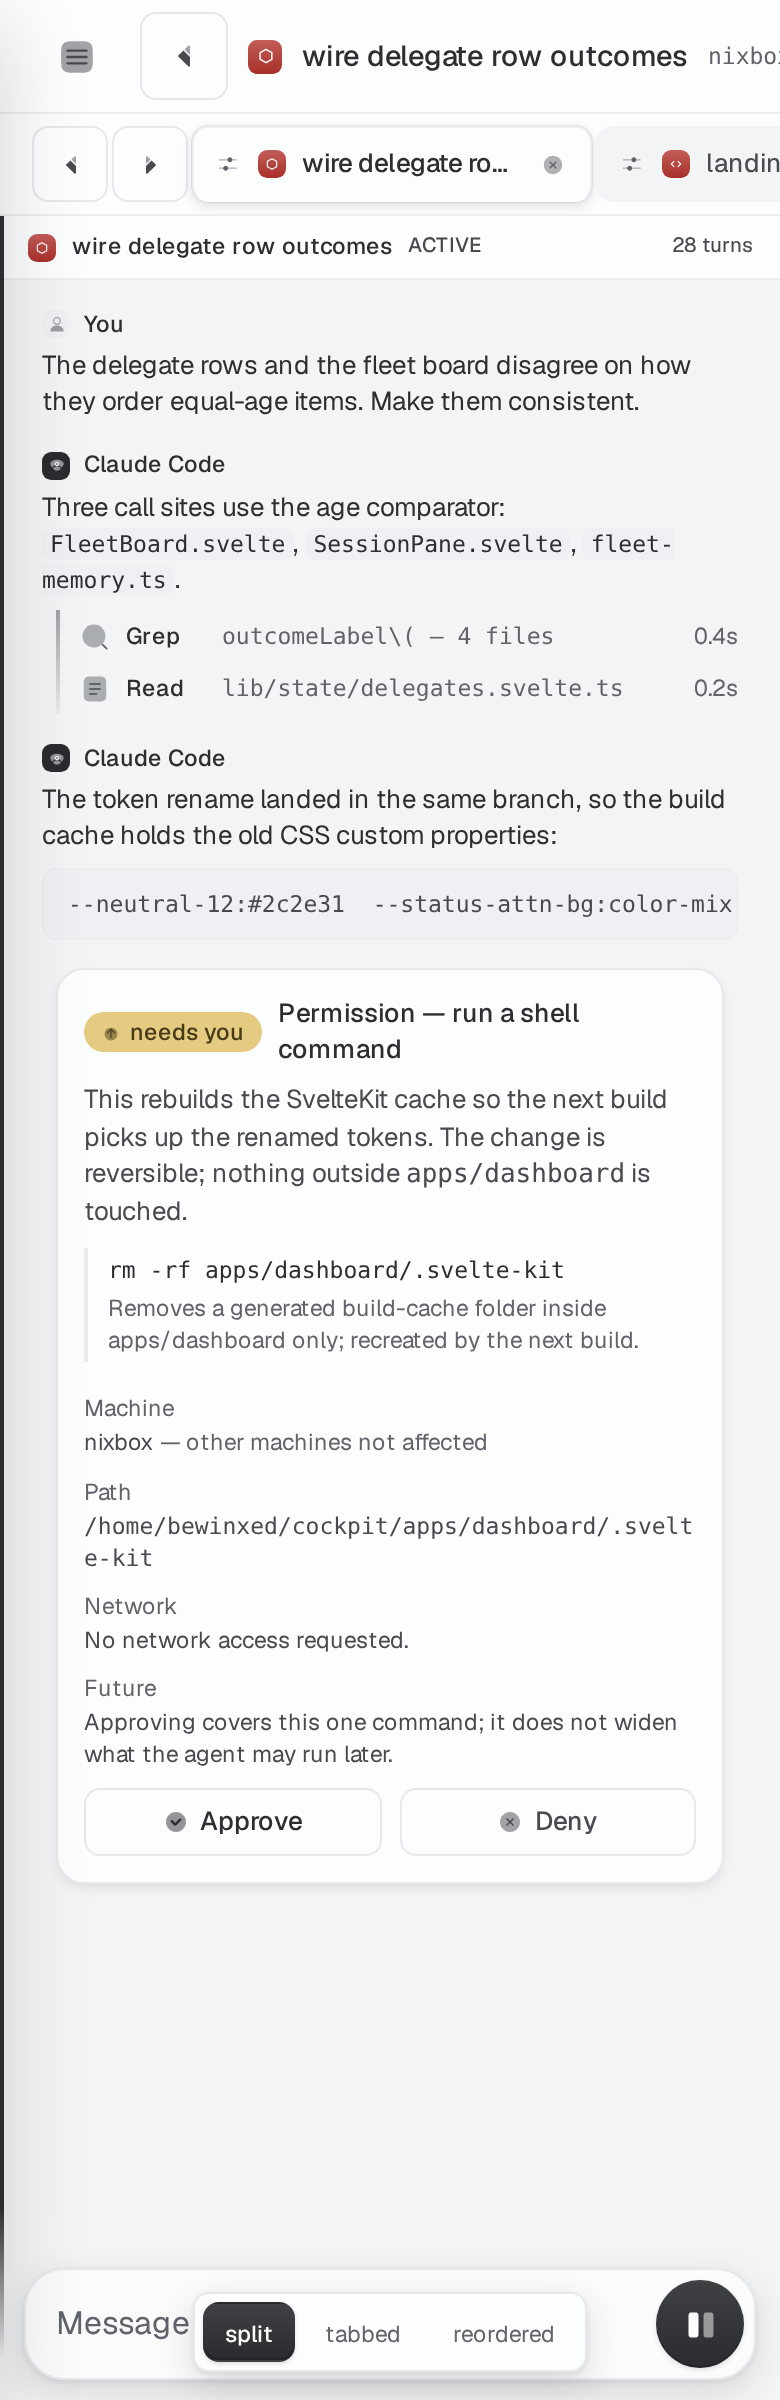
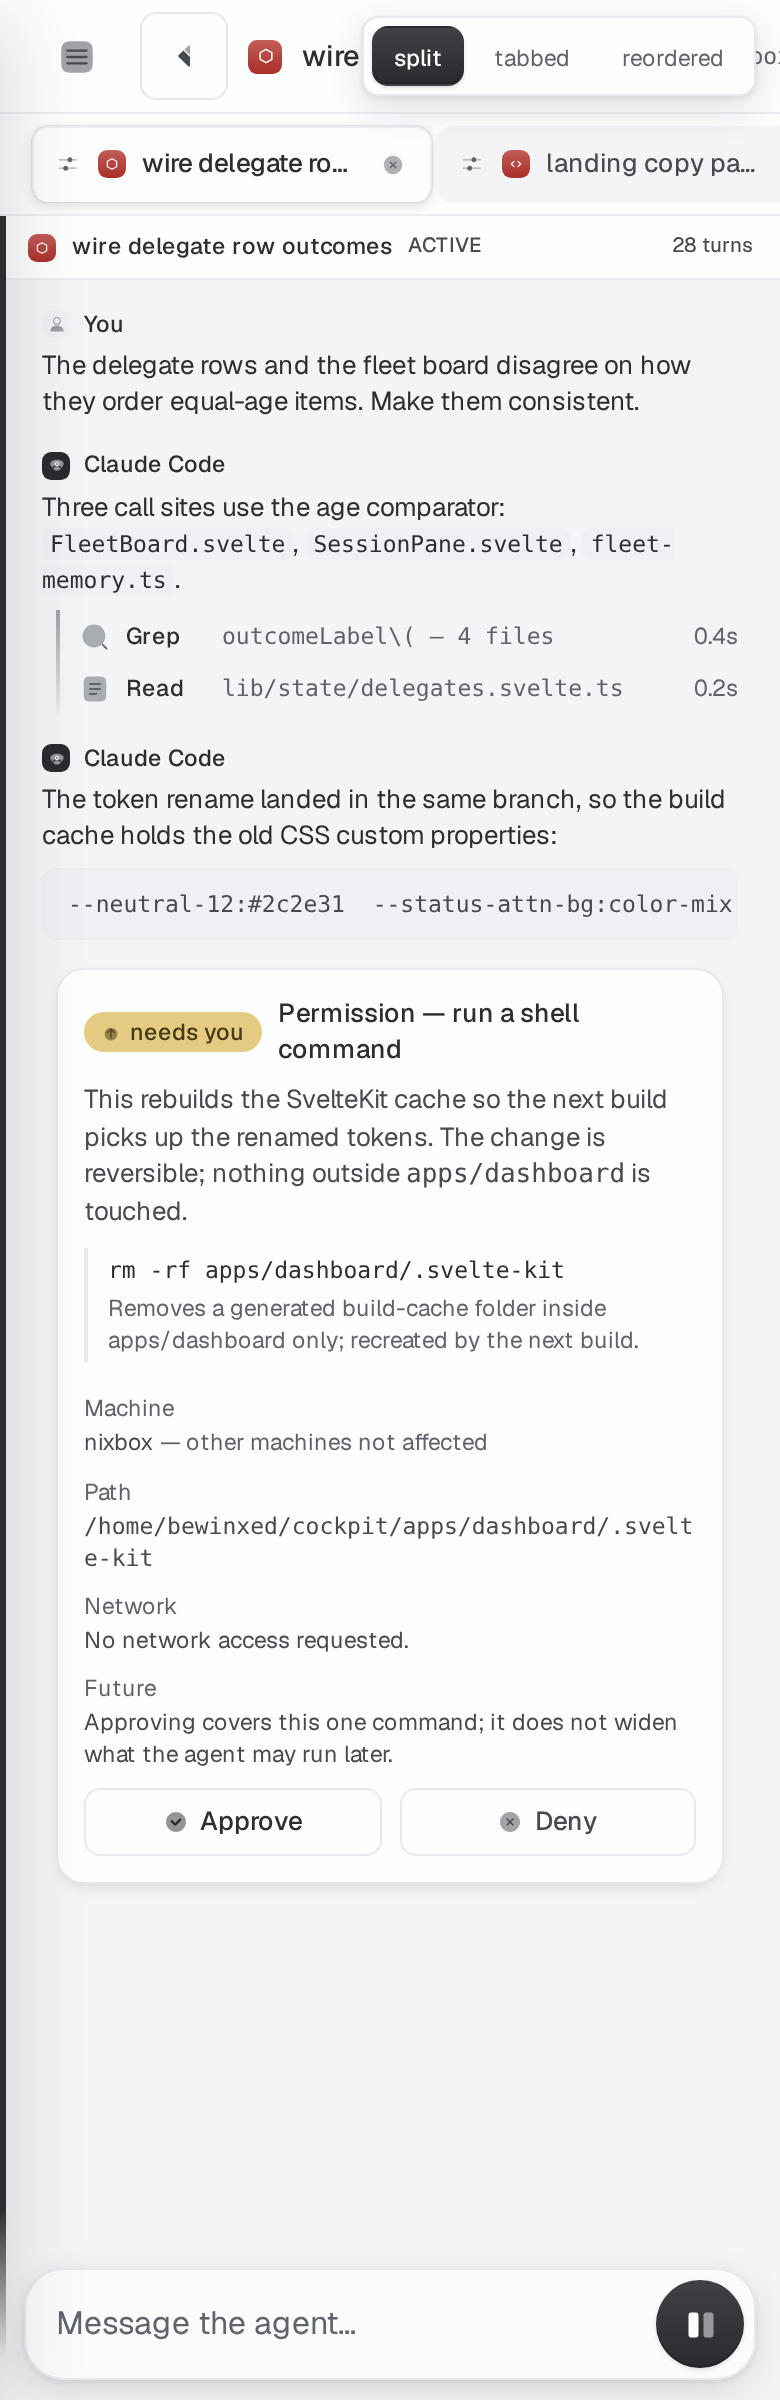
design(workspace): fix Phase 8 visual-review defects (composer/toggle collision, active-pane cue, tab-strip balance)
Fresh-context vision review of the 4 renders surfaced defects the DOM gate
couldn't see. Fixed in the mock and re-verified by measurement:

- CRITICAL: the ws-state toggle overlapped the bottom-centre composer and
  clipped the placeholder; the toggle now docks TOP-RIGHT, the composer is
  unobstructed (overlap measured false on desktop + mobile).
- MAJOR: active-pane non-colour cue strengthened — 3px graphite left rail on
  the active pane, the whole inactive pane dimmed (head .78 / body .7) in both
  schemes, plus the 'Active' word + aria-selected + ink weight, so DW-8.2 reads
  without colour (was too subtle in light before).
- MAJOR: the prev/next pager sorted to the LEFT via CSS order (its default 0
  beat the tabs' --tab-order 1..4); now order:20 -> renders on the right, tabs
  left-aligned, balanced strip.
- MINOR: the mobile-only nav burger rendered as a stray 4px sliver in the
  desktop header; now display:none on desktop.

verify.sh green (exit 0, 0 FAIL).

diff --git a/mocks/src/v5-workspace.html b/mocks/src/v5-workspace.html
@@ -177,6 +177,9 @@ main{display:flex;flex-direction:column;overflow:hidden;min-width:0;position:rel
 @media (hover:hover) and (pointer:fine){.shead .back:hover{background:var(--surface-hover)}}
 .shead .back:active{background:var(--surface-active)}
 .shead .back:focus-visible{outline:2px solid var(--focus-ring);outline-offset:2px}
+/* the nav burger is a mobile-only affordance; on desktop the sidebar is fixed
+   and visible, so the burger is hidden (not a stray 4px sliver in the header) */
+.burger{display:none}
 .shead .mark{width:17px;height:17px;border-radius:var(--radius-mark);flex:0 0 auto;display:grid;place-items:center;
   background-image:var(--mark-overlay);background-color:var(--mark-1)}
 .shead .mark svg{width:10px;height:10px;display:block;stroke:var(--mark-glyph);stroke-width:1.8}
@@ -240,8 +243,10 @@ main{display:flex;flex-direction:column;overflow:hidden;min-width:0;position:rel
 .tab .grip{width:14px;height:14px;flex:0 0 auto;color:var(--ink-muted);display:grid;place-items:center}
 .tab .grip svg{width:10px;height:10px;display:block}
 /* DW-8.7 non-gesture equivalents: the pager renders explicit prev/next buttons
-   so tab switching is never a swipe-only action. */
-.pager{display:inline-flex;align-items:center;gap:2px;margin-left:auto;flex:0 0 auto}
+   so tab switching is never a swipe-only action. `order` places it AFTER the
+   tabs (tabs carry --tab-order 1..4 from the reorder remap, so without an
+   explicit order the pager would sort to 0 and render on the LEFT). */
+.pager{display:inline-flex;align-items:center;gap:2px;margin-left:auto;flex:0 0 auto;order:20}
 .pager button{width:var(--w-tab-h);height:var(--w-tab-h);border:1px solid var(--border-control);
   border-radius:var(--radius-control);background:var(--surface-raised);color:var(--ink-body);
   display:grid;place-items:center;cursor:pointer;user-select:none}
@@ -281,10 +286,12 @@ body[data-ws] .tabstrip[data-order="reordered"] .tab:nth-child(4){--tab-order:2}
 .pane-head .pn{font-weight:var(--weight-medium);color:var(--ink-body);overflow:hidden;
   text-overflow:ellipsis;white-space:nowrap;min-width:0}
 .pane-head .ps{margin-left:auto;font-size:var(--text-xs);color:var(--ink-muted);flex:0 0 auto}
-/* THE ACTIVE-PANE NON-COLOUR CUE (DW-8.2) — a left rail in GRAPHITE carried by
-   both an element AND ink weight AND the word "Active" AND aria-selected. This
-   specific cue is not colour-dependent: it is a positional rail + label + state. */
-.ws-pane .pane-rail{position:absolute;left:0;top:0;bottom:0;width:2px;background:var(--brand-solid);
+/* THE ACTIVE-PANE NON-COLOUR CUE (DW-8.2) — a graphite left rail carried by an
+   element + the "Active" word + full ink weight + aria-selected. This specific
+   cue is NOT colour-dependent: it is a positional rail + label + state. The
+   INACTIVE pane recedes — its whole surface (header + transcript) is dimmed so
+   the active pane reads clearly without hunting, in BOTH schemes. */
+.ws-pane .pane-rail{position:absolute;left:0;top:0;bottom:0;width:3px;background:var(--brand-solid);
   opacity:0;transition:opacity var(--c-300) var(--e-toggle)}
 .ws-pane.active .pane-rail{opacity:1}
 .ws-pane.active .pane-head{color:var(--ink-strong)}
@@ -295,8 +302,9 @@ body[data-ws] .tabstrip[data-order="reordered"] .tab:nth-child(4){--tab-order:2}
 .ws-pane .pact{display:none;font-size:var(--text-xs);color:var(--ink-body);
   font-weight:var(--weight-strong);text-transform:uppercase;letter-spacing:var(--track-caps);flex:0 0 auto}
 .ws-pane.active .pact{display:inline-flex}
-/* the inactive pane recedes: dimmed, but still fully legible */
-.ws-pane:not(.active) .tr-pane{opacity:.86}
+/* the inactive pane recedes: its whole surface (head + transcript) is dimmed */
+.ws-pane:not(.active) .pane-head{opacity:.78}
+.ws-pane:not(.active) .tr-pane{opacity:.7}
 
 /* the transcript pane — NOT pan-y (DW-8.5 deliberate deviation). It holds
    horizontally-scrolling code blocks / tool output (DW-8.8), so pan-y would
@@ -416,7 +424,11 @@ body[data-ws="tabbed"] .ws-tabbed,
 body[data-ws="reordered"] .ws-tabbed{display:block}
 
 /* ---- flux toolbar -------------------------------------------------------- */
-.wsbar{position:fixed;left:50%;bottom:14px;transform:translateX(-50%);z-index:98;display:flex;gap:4px;
+/* NOTE: this segmented control is a GATE / SCREENSHOT affordance (selecting
+   the split / tabbed / reordered ws states), NOT product UI. It is docked to
+   the TOP-right corner of the viewport so it can never overlap the composer
+   (which floats bottom-centre, a Phase 8 fixed anchor). */
+.wsbar{position:fixed;top:8px;right:12px;z-index:110;display:flex;gap:4px;
   align-items:center;padding:4px;border:1px solid var(--border-control);background:var(--surface-raised);
   border-radius:var(--radius-control);box-shadow:var(--shadow-lifted)}
 .wsbar button{height:30px;padding:0 10px;border:1px solid transparent;border-radius:var(--radius-control);

diff --git a/mocks/v5-workspace.html b/mocks/v5-workspace.html
@@ -177,6 +177,9 @@ main{display:flex;flex-direction:column;overflow:hidden;min-width:0;position:rel
 @media (hover:hover) and (pointer:fine){.shead .back:hover{background:var(--surface-hover)}}
 .shead .back:active{background:var(--surface-active)}
 .shead .back:focus-visible{outline:2px solid var(--focus-ring);outline-offset:2px}
+/* the nav burger is a mobile-only affordance; on desktop the sidebar is fixed
+   and visible, so the burger is hidden (not a stray 4px sliver in the header) */
+.burger{display:none}
 .shead .mark{width:17px;height:17px;border-radius:var(--radius-mark);flex:0 0 auto;display:grid;place-items:center;
   background-image:var(--mark-overlay);background-color:var(--mark-1)}
 .shead .mark svg{width:10px;height:10px;display:block;stroke:var(--mark-glyph);stroke-width:1.8}
@@ -240,8 +243,10 @@ main{display:flex;flex-direction:column;overflow:hidden;min-width:0;position:rel
 .tab .grip{width:14px;height:14px;flex:0 0 auto;color:var(--ink-muted);display:grid;place-items:center}
 .tab .grip svg{width:10px;height:10px;display:block}
 /* DW-8.7 non-gesture equivalents: the pager renders explicit prev/next buttons
-   so tab switching is never a swipe-only action. */
-.pager{display:inline-flex;align-items:center;gap:2px;margin-left:auto;flex:0 0 auto}
+   so tab switching is never a swipe-only action. `order` places it AFTER the
+   tabs (tabs carry --tab-order 1..4 from the reorder remap, so without an
+   explicit order the pager would sort to 0 and render on the LEFT). */
+.pager{display:inline-flex;align-items:center;gap:2px;margin-left:auto;flex:0 0 auto;order:20}
 .pager button{width:var(--w-tab-h);height:var(--w-tab-h);border:1px solid var(--border-control);
   border-radius:var(--radius-control);background:var(--surface-raised);color:var(--ink-body);
   display:grid;place-items:center;cursor:pointer;user-select:none}
@@ -281,10 +286,12 @@ body[data-ws] .tabstrip[data-order="reordered"] .tab:nth-child(4){--tab-order:2}
 .pane-head .pn{font-weight:var(--weight-medium);color:var(--ink-body);overflow:hidden;
   text-overflow:ellipsis;white-space:nowrap;min-width:0}
 .pane-head .ps{margin-left:auto;font-size:var(--text-xs);color:var(--ink-muted);flex:0 0 auto}
-/* THE ACTIVE-PANE NON-COLOUR CUE (DW-8.2) — a left rail in GRAPHITE carried by
-   both an element AND ink weight AND the word "Active" AND aria-selected. This
-   specific cue is not colour-dependent: it is a positional rail + label + state. */
-.ws-pane .pane-rail{position:absolute;left:0;top:0;bottom:0;width:2px;background:var(--brand-solid);
+/* THE ACTIVE-PANE NON-COLOUR CUE (DW-8.2) — a graphite left rail carried by an
+   element + the "Active" word + full ink weight + aria-selected. This specific
+   cue is NOT colour-dependent: it is a positional rail + label + state. The
+   INACTIVE pane recedes — its whole surface (header + transcript) is dimmed so
+   the active pane reads clearly without hunting, in BOTH schemes. */
+.ws-pane .pane-rail{position:absolute;left:0;top:0;bottom:0;width:3px;background:var(--brand-solid);
   opacity:0;transition:opacity var(--c-300) var(--e-toggle)}
 .ws-pane.active .pane-rail{opacity:1}
 .ws-pane.active .pane-head{color:var(--ink-strong)}
@@ -295,8 +302,9 @@ body[data-ws] .tabstrip[data-order="reordered"] .tab:nth-child(4){--tab-order:2}
 .ws-pane .pact{display:none;font-size:var(--text-xs);color:var(--ink-body);
   font-weight:var(--weight-strong);text-transform:uppercase;letter-spacing:var(--track-caps);flex:0 0 auto}
 .ws-pane.active .pact{display:inline-flex}
-/* the inactive pane recedes: dimmed, but still fully legible */
-.ws-pane:not(.active) .tr-pane{opacity:.86}
+/* the inactive pane recedes: its whole surface (head + transcript) is dimmed */
+.ws-pane:not(.active) .pane-head{opacity:.78}
+.ws-pane:not(.active) .tr-pane{opacity:.7}
 
 /* the transcript pane — NOT pan-y (DW-8.5 deliberate deviation). It holds
    horizontally-scrolling code blocks / tool output (DW-8.8), so pan-y would
@@ -416,7 +424,11 @@ body[data-ws="tabbed"] .ws-tabbed,
 body[data-ws="reordered"] .ws-tabbed{display:block}
 
 /* ---- flux toolbar -------------------------------------------------------- */
-.wsbar{position:fixed;left:50%;bottom:14px;transform:translateX(-50%);z-index:98;display:flex;gap:4px;
+/* NOTE: this segmented control is a GATE / SCREENSHOT affordance (selecting
+   the split / tabbed / reordered ws states), NOT product UI. It is docked to
+   the TOP-right corner of the viewport so it can never overlap the composer
+   (which floats bottom-centre, a Phase 8 fixed anchor). */
+.wsbar{position:fixed;top:8px;right:12px;z-index:110;display:flex;gap:4px;
   align-items:center;padding:4px;border:1px solid var(--border-control);background:var(--surface-raised);
   border-radius:var(--radius-control);box-shadow:var(--shadow-lifted)}
 .wsbar button{height:30px;padding:0 10px;border:1px solid transparent;border-radius:var(--radius-control);
